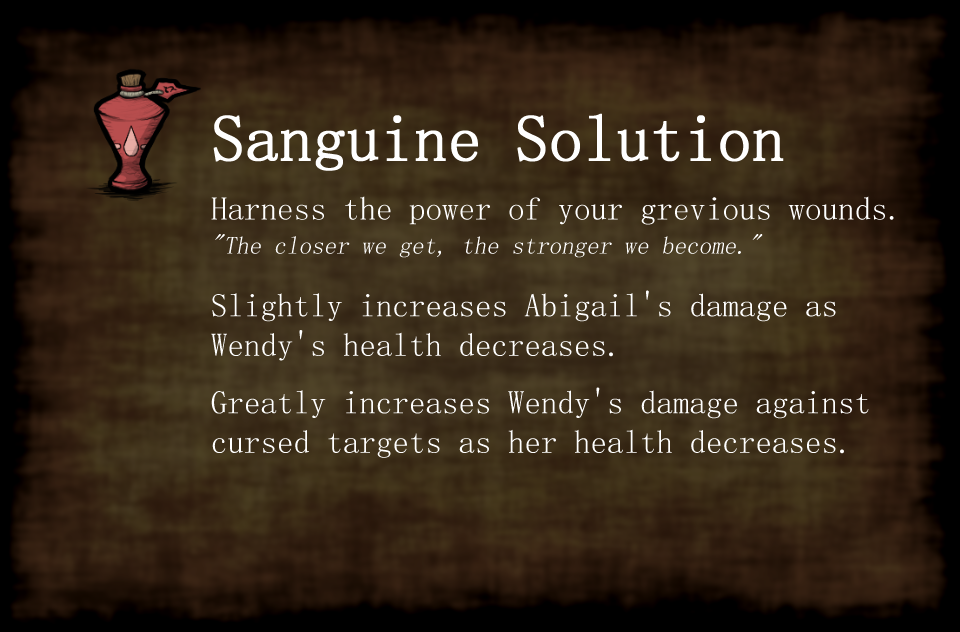
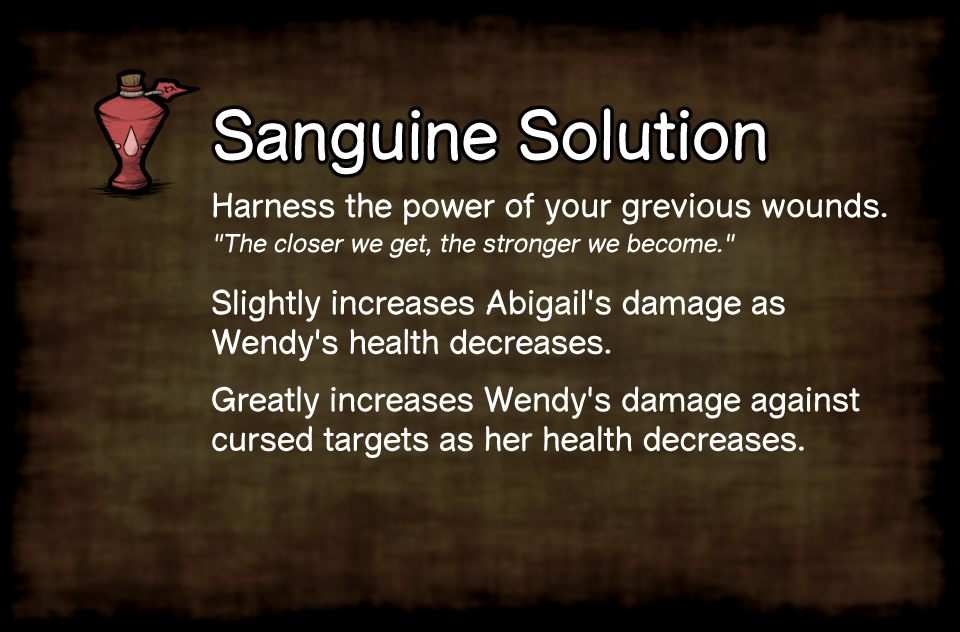
Updated images and readme

Changed region(s): [[0.2188, 0.1503, 0.9375, 0.4209], [0.2188, 0.6013, 0.9062, 0.7215], [0.2188, 0.4509, 0.875, 0.5712]]

diff --git a/README.md b/README.md
@@ -1,2 +1,40 @@
-# ghostly-elixirs-plus
-Don't Starve Together mod that extends the functionality of Wendy's Ectoherbology
+# Ghostly Elixirs+
+Improves the potential of Wendy's Ectoherbology with new elixirs, grave mechanics, and offerings!
+
+## Standard Elixirs
+### Floral Incense
+* Abigail gains a positive sanity aura of +40/min.
+
+### Radiant Remedy
+* Abigail's light radius increases greatly.
+* Abigail becomes a heat source.
+
+### Sanguine Solution
+* Abigail's damage scales up to 1.5x as Wendy's health decreases to 20%.
+* Wendy's damage against cursed targets scales from 1.4x up to 2.4x as Wendy's health decreases to 20%.
+* While Wendy's health drops below 20%, her damage against cursed targets is boosted up to 2.8x.
+
+## Nightmare Elixirs
+All nightmare elixirs have the following effects:
+* Abigail gains a negative sanity aura of -100/min.
+* Removing a nightmare elixir causes a burst of insanity, draining the sanity of all nearby players.  The burst is more severe when the removal is caused by Abigail's death.
+
+### Purifying Balm
+* Safely removes Abigail's active elixir effect.
+* If the active elixir effect is a nightmare elixir, its removal does not cause a burst of insanity and Abigail drops a handful of Mourning Glories.
+
+### Nightmare Serum
+* Nightmare elixir.
+* Abigail's damage scales up to 1.5x as Wendy's sanity decreases to 20%.
+* Wendy's damage against cursed targets scales from 1.4x to 2.0x as Wendy's health decreases to 20%.
+* While Wendy's sanity drops below 20%, her damage against cursed targets is boosted up to 2.5x.
+
+### Tenebrous Tincture
+* Nightmare elixir.
+* Allows Abigail to attack and be attacked by Shadow Creatures.
+* Wendy's damage against cursed Shadow Creatures increases by 2.0x.
+
+### Distilled Wrath
+* Nightmare elixir.
+* Electrifies Abigail's attacks, increasing her damage by 1.5x against dry targets, and 2.5x against wet targets.
+* Causes Abigail's attacks to have a 10% chance to strike a nearby target with lightning.  The lightning can still be attracted by lightning rods or players, including Wendy.
